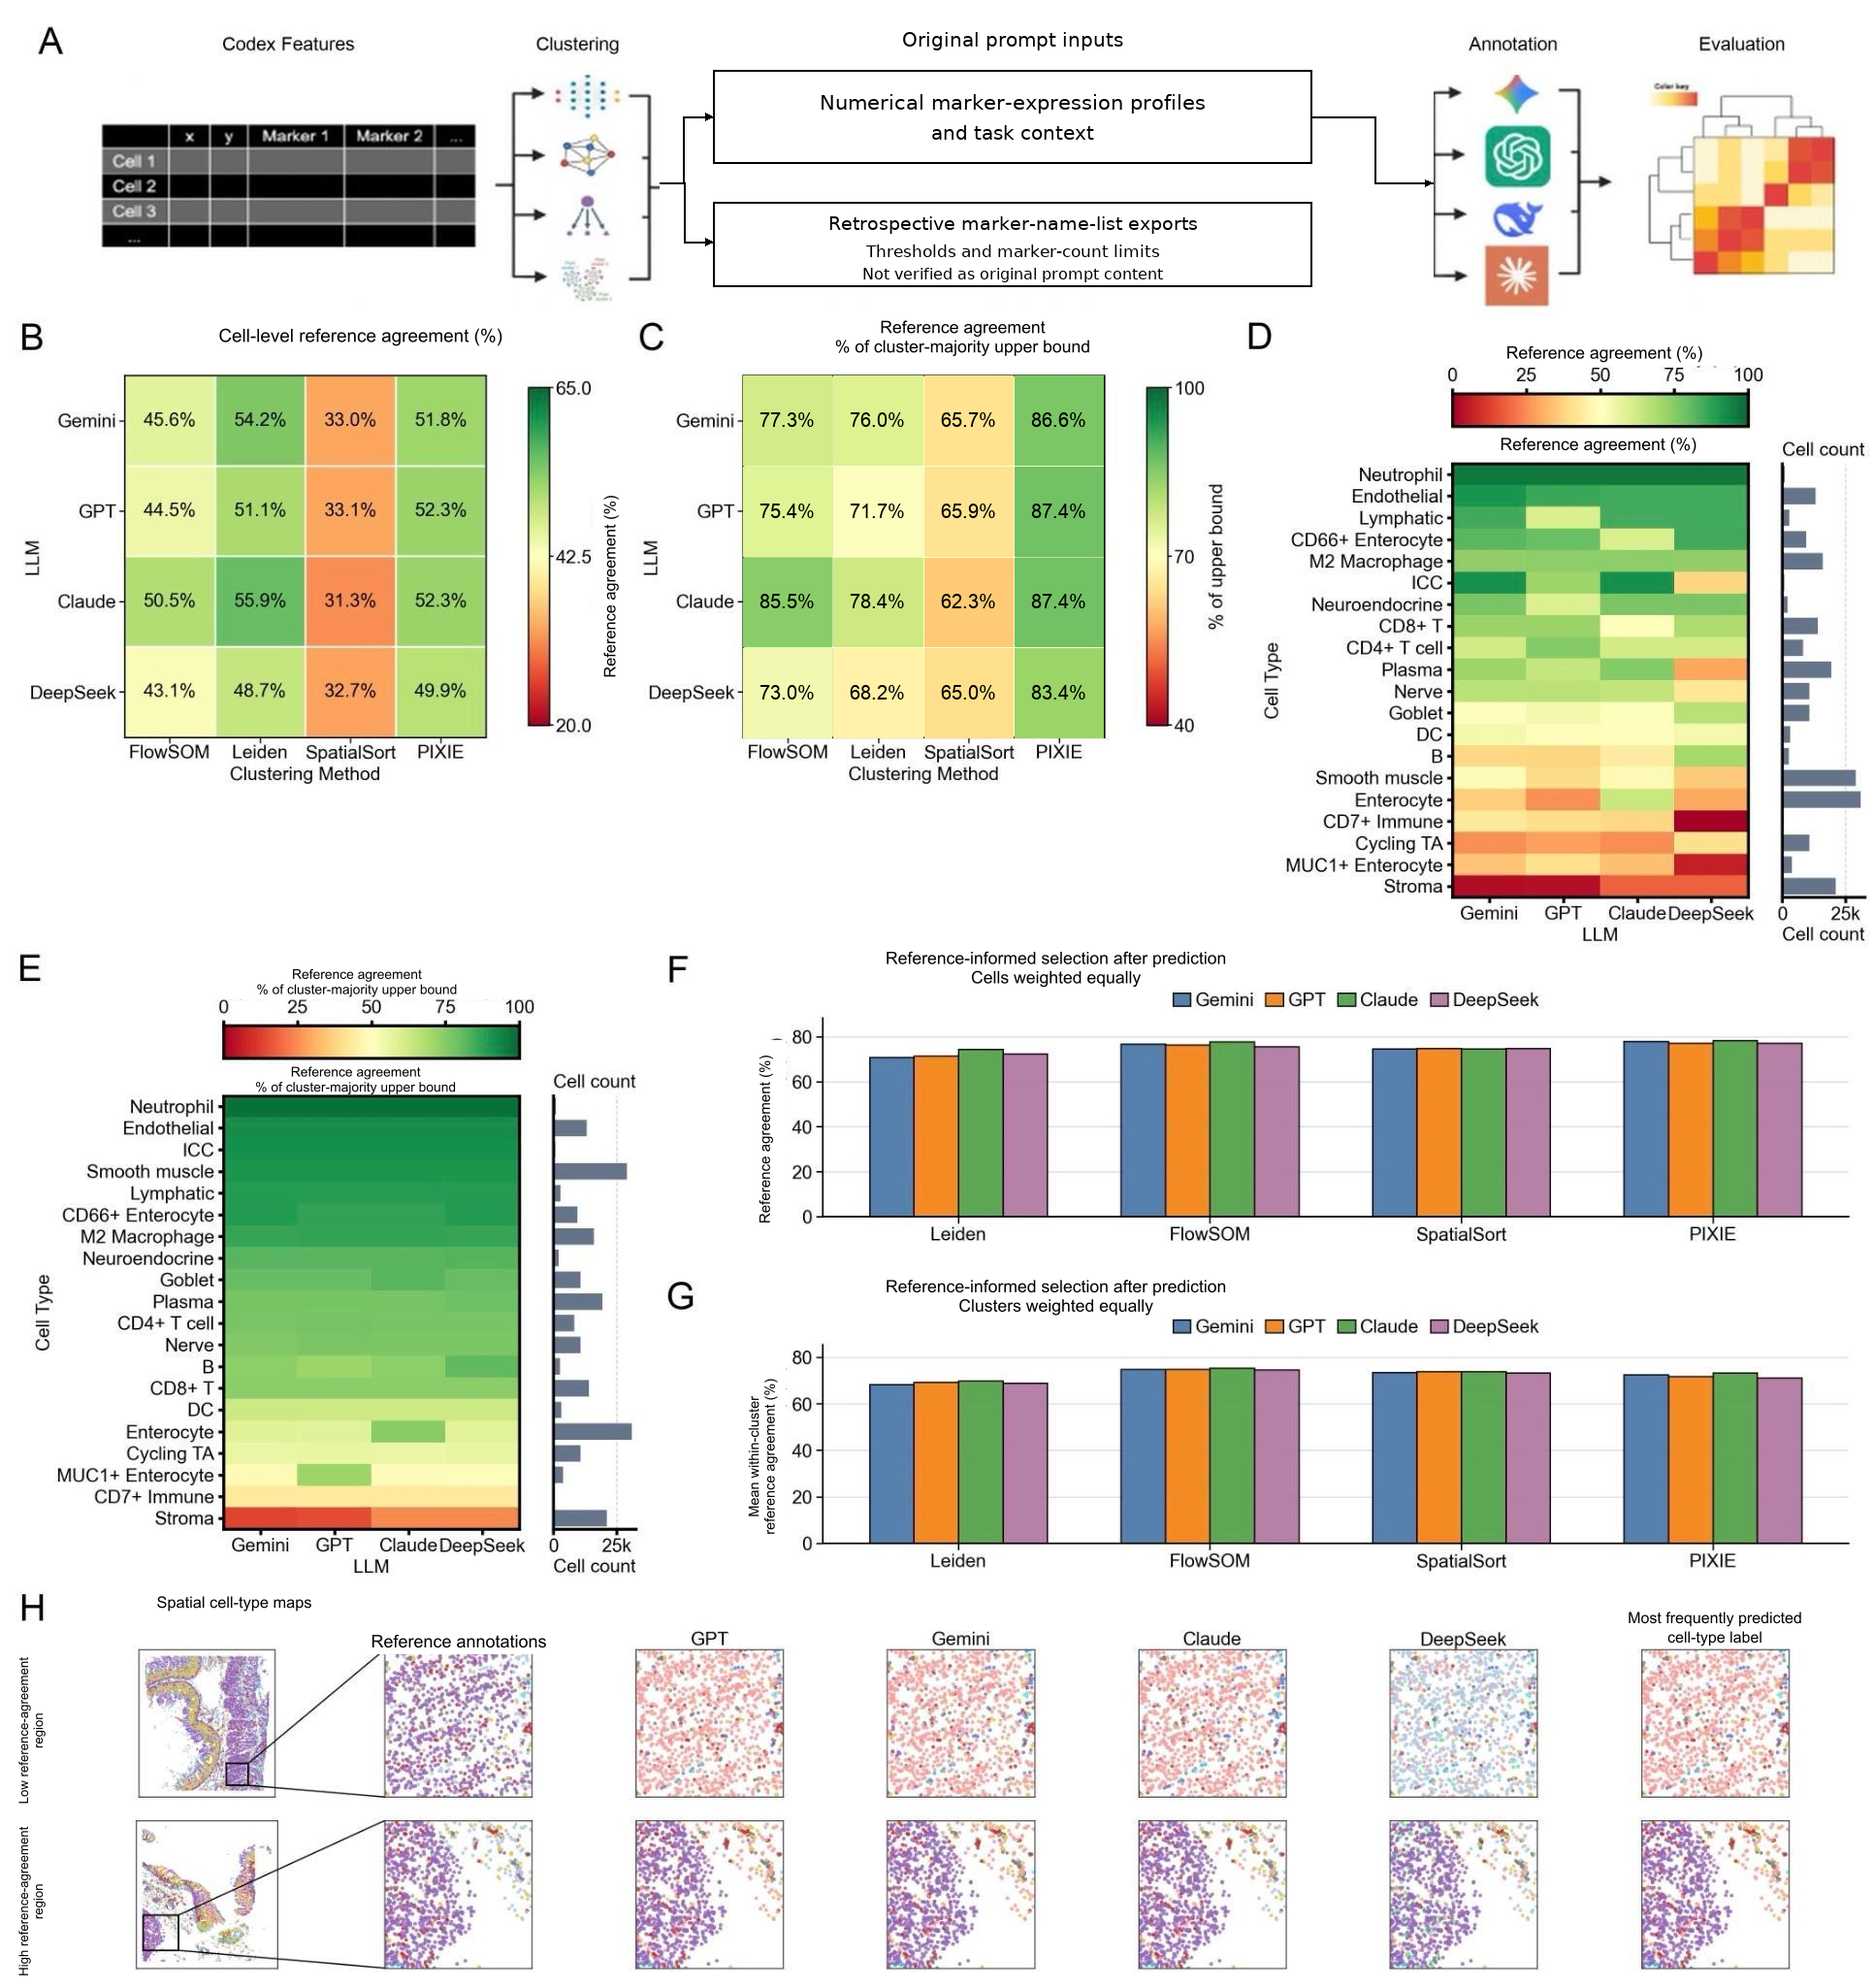
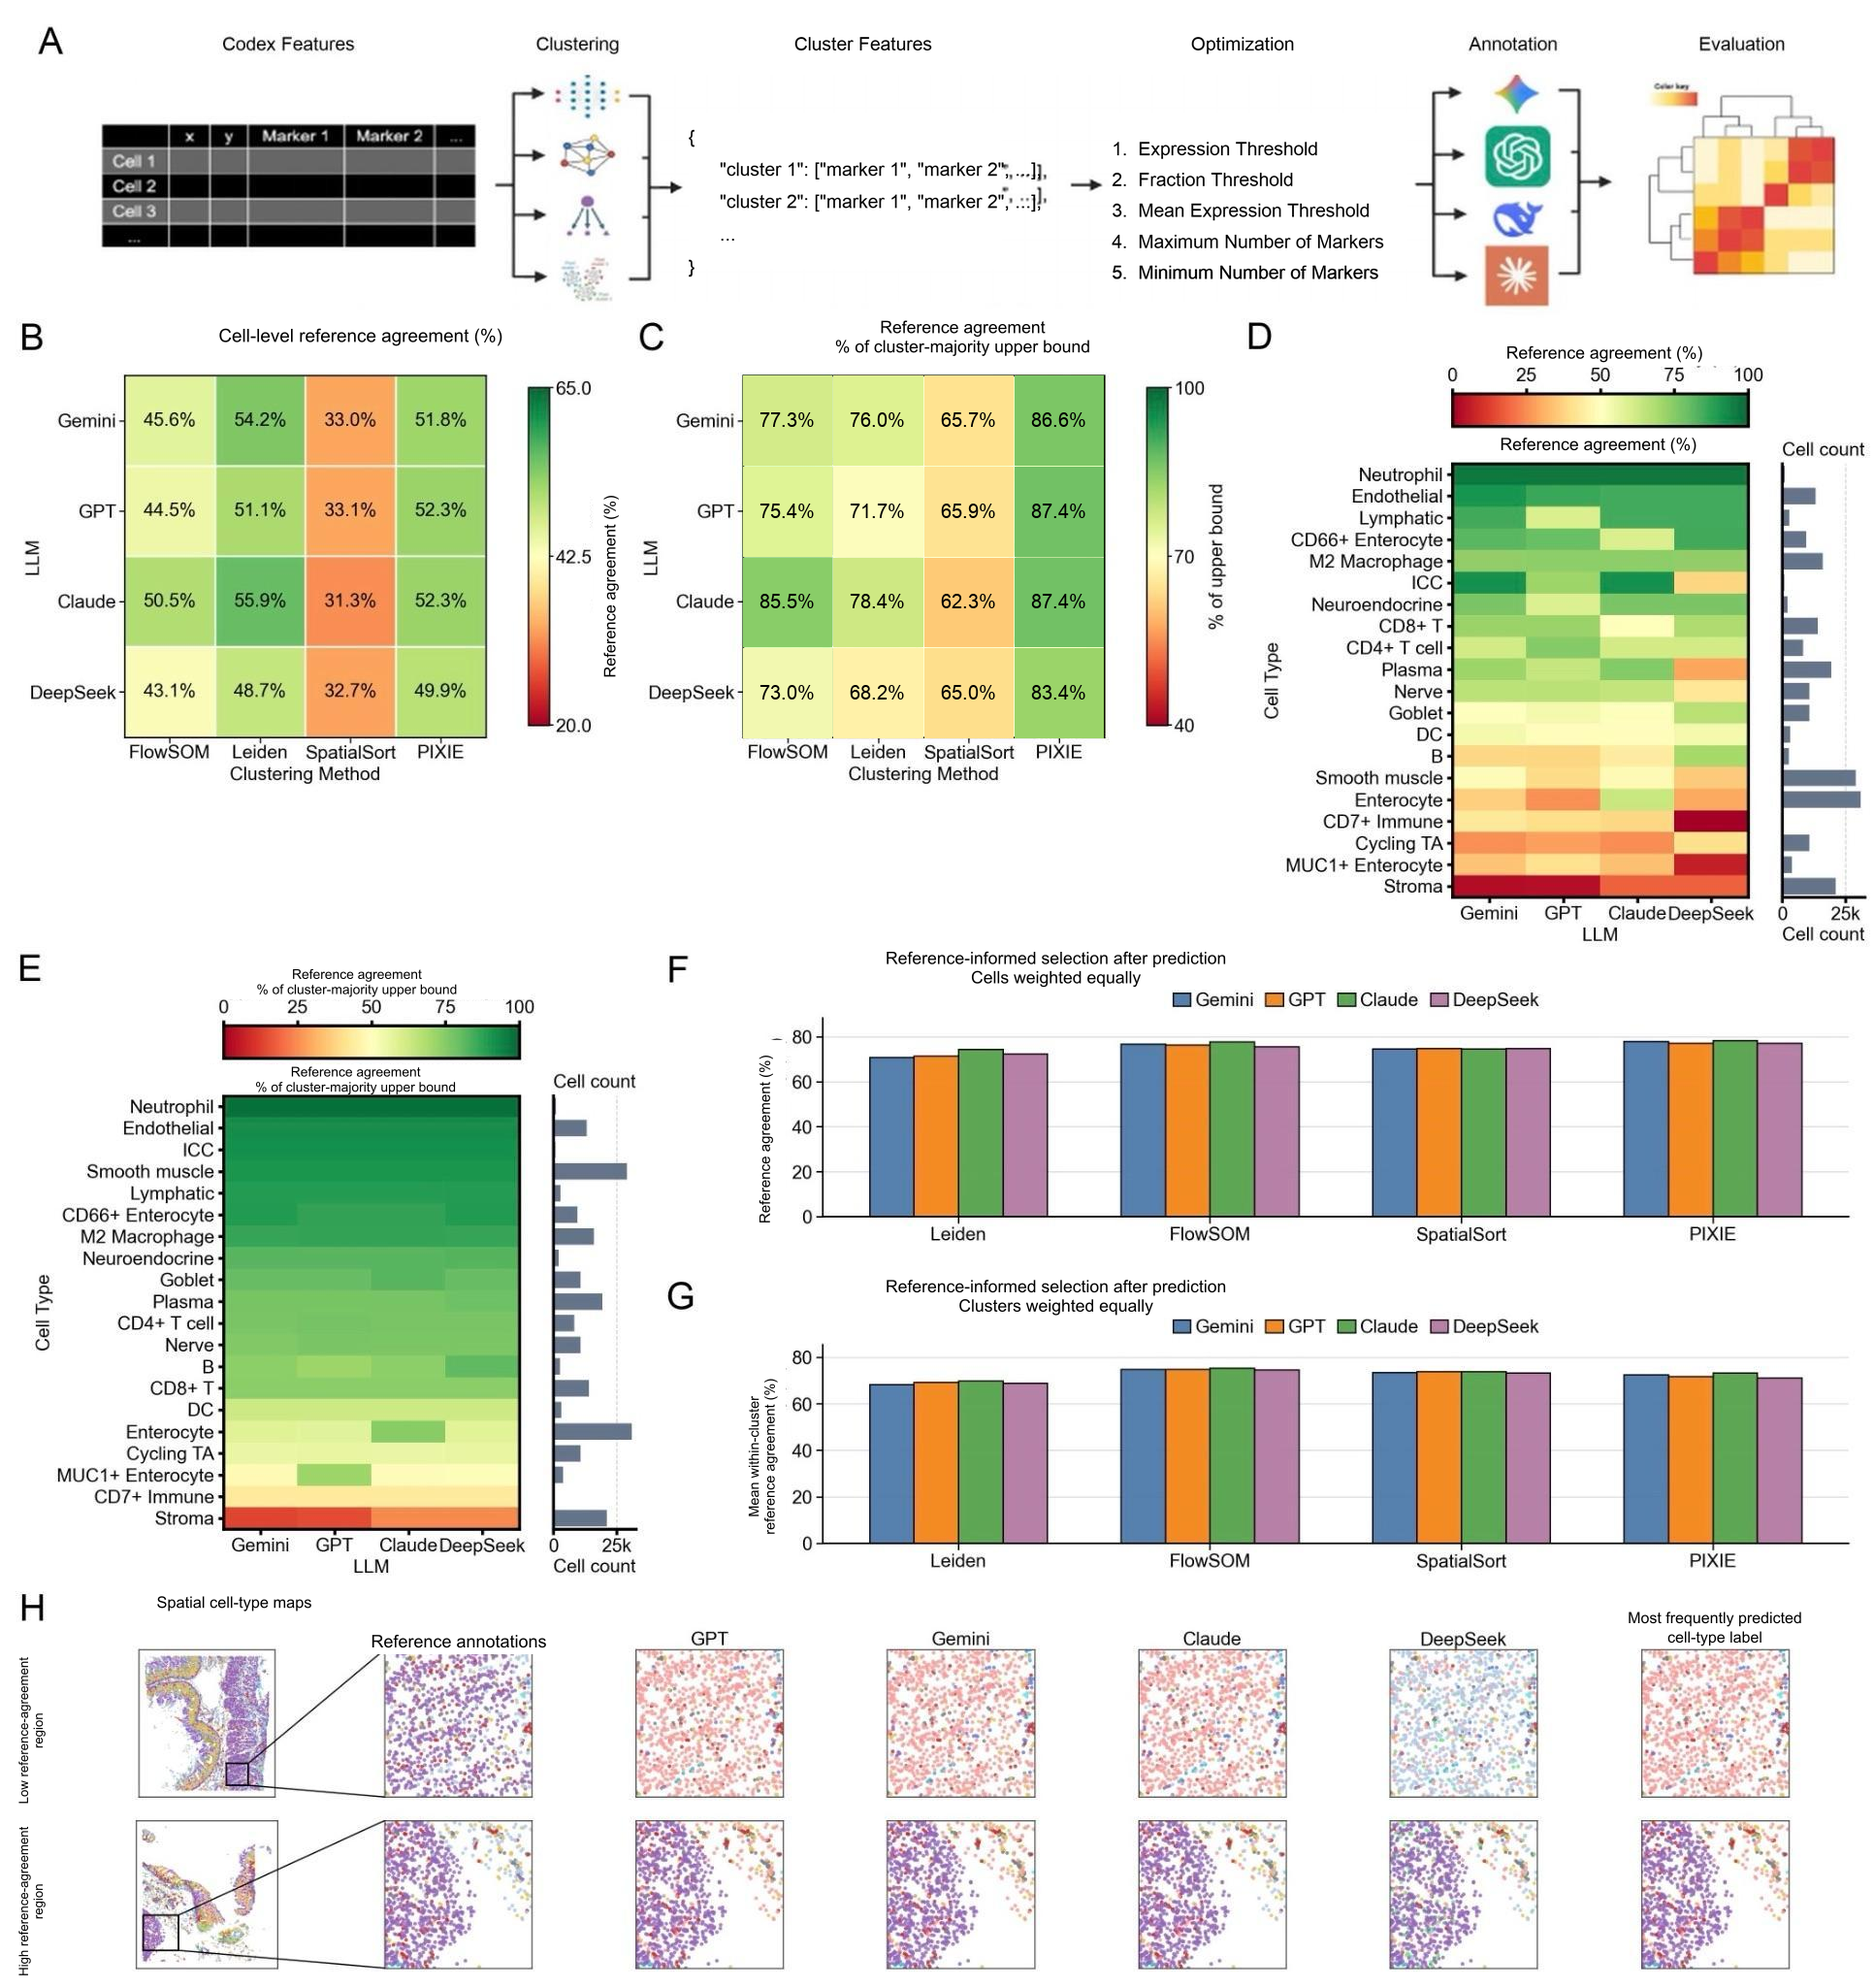
Restore original Figure 3A artwork to match manuscript (#23)

Changed region(s): [[0.4348, 0.0, 0.7453, 0.1562], [0.3727, 0.0625, 0.4037, 0.125], [0.6522, 0.0, 0.6832, 0.0312]]

diff --git a/scripts/update_reference_figure_labels.py b/scripts/update_reference_figure_labels.py
@@ -13,7 +13,6 @@ from pathlib import Path
 import subprocess
 import numpy as np
 from PIL import Image, ImageDraw, ImageFont
-from figure_03_workflow_artwork import draw_prompt_workflow
 
 ROOT = Path(__file__).resolve().parents[1]
 MANIFEST = ROOT / 'docs/reference_figure_label_changes.json'
@@ -37,9 +36,6 @@ def render(source: bytes, spec: dict, font_path: Path) -> Image.Image:
             dx, dy, dw, dh = repair['destination']
             tile = original.crop(tuple(repair['source'])).resize((dw, dh), Image.Resampling.NEAREST)
             result.paste(tile, (dx, dy))
-        if label.get('kind') == 'prompt_workflow':
-            draw_prompt_workflow(result, label['rect'], font_path)
-            continue
         label_font = font_path.with_name('DejaVuSans-Bold.ttf') if label.get('bold') else font_path
         font = ImageFont.truetype(str(label_font), round(label['size']))
         if label.get('kind') == 'component_legend':

diff --git a/docs/figure_03_workflow_and_modal_labels.md b/docs/figure_03_workflow_and_modal_labels.md
@@ -1,32 +1,25 @@
-# Figure 3 prompt provenance and modal-label terminology
+# Figure 3 workflow artwork and modal-label terminology
 
-Publication panel A retains the CODEX feature table, clustering icons, model
-icons and evaluation graphic. Its central schematic now has two distinct paths:
+Publication panel A matches the original workflow restored in the manuscript:
+CODEX Features -> Clustering -> Cluster Features -> Optimization -> Annotation
+-> Evaluation. The cluster-feature block contains the original JSON-style
+marker-name-list example, and the optimization block lists the original five
+threshold and marker-count parameters. The notebook vector schematic uses the
+same stages. No manuscript caption or surrounding prose is changed by this sync.
 
-- Numerical marker-expression profiles and task context feed the original LLM
-  prompt/annotation path.
-- Retrospective marker-name-list exports have a separate branch, labelled as
-  threshold- and marker-count-based exports that do not verify original prompt
-  content. There is no arrow from the short-list export to the LLMs.
+The publication preview is reproduced from the checksum-pinned historical PNG
+without the superseded panel-A overlay. The manuscript image is reproduced from
+its checksum-pinned artwork snapshot. The restoration audit records the exact
+input-region rectangles and verifies that all pixels outside them are unchanged.
+Panels B–H, numerical results, predictions and biological vocabularies are retained.
 
-The old marker-list → optimization → LLM chain is removed. This is a correction
-to the explanatory workflow, with no changes to input data, predictions,
-parameter settings or results. The distinction follows the manuscript’s source
-interpretation in Section 2.10, Section 3.3, Supplementary Note 1 and the caption.
-It does not claim that the notebook reconstruction's generated summaries
-establish the historical prompts.
+The archived numerical marker-expression profiles and task context remain
+distinct from the retrospective marker-name-list exports in the source records.
+Restoring the original explanatory schematic does not alter those records or
+establish how the historical benchmark inputs were constructed.
 
-Publication panel H uses **Modal predicted label**. This describes the most
-frequent predicted label with the existing deterministic tie rule. It does not
-claim independently validated consensus. The underlying modal labels and maps
-are unchanged, and internal `modal_consensus` keys remain for compatibility.
+Publication panel H retains its descriptive modal predicted-label terminology.
+The underlying labels, deterministic tie rule and maps are unchanged, and internal
+`modal_consensus` keys remain for compatibility.
 
-The reproducible display-overlay manifest records exact rectangles and source
-and output hashes. The preview generator verifies that every pixel outside its
-declared rectangles remains identical. The canonical notebook schematic also
-uses the two separate branches. The historical local production renderers use
-the same workflow helper and modal map heading.
-
-## Matching Figure 3 caption wording
-
-Figure 3. Benchmarking large language model cell-type annotation. (A) Workflow showing numerical marker-expression profiles and task context supplied in the original LLM prompts, followed by annotation with GPT-5.6-Sol, Claude Opus 5, Gemini 3.1 Pro Preview or DeepSeek V4 Pro and evaluation against reference labels. Retrospective threshold-based marker-name-list exports are shown on a separate branch and do not establish the original prompt content. (B) Cell-level reference agreement across the 16 raw method-model maps. (C) Reference agreement as a percentage of the cluster-majority upper bound. (D) Cell-type-specific reference agreement for the four models applied to Leiden clusters. (E) Cell-type-specific reference agreement as a percentage of the cluster-majority upper bound. Bars at right in (D) and (E) show reference cell counts. (F–G) We used the known reference labels to select among candidate annotation outputs after prediction. Panel F gives each cell equal weight, while panel G gives each cluster equal weight. Because this selection uses reference labels, it does not measure performance on unlabeled data. (H) Reference and model-predicted spatial maps for representative low- and high-agreement regions. The modal predicted-label map is descriptive and is not an independently validated consensus pipeline. Cell-type colors correspond to Figure 2B. Panel C is recalculated from the verified final maps and fixed-partition majority bounds using Equation (4).
+See `figure_03a_original_restoration_verification.json` for pixel checks and hashes.

diff --git a/notebooks/final_figures/previews/README.md b/notebooks/final_figures/previews/README.md
@@ -1,10 +1,9 @@
 # Publication previews
 
 These PNG files preserve the source-traced publication results and include
-reference terminology, verified metric labels and a prompt-provenance workflow
-revision. They
-are committed so reviewers can inspect the results on GitHub without rerunning
-an analysis. Nine previews preserve every pixel outside 54 declared overlay
+reference terminology, verified metric labels and the restored original Figure 3A
+workflow. They are committed so reviewers can inspect the results on GitHub without rerunning
+an analysis. Nine previews preserve every pixel outside 53 declared overlay
 areas. Figures S5C and S7 are separately rendered from 336 and 32 frozen results
 with their revised palettes and labels. All numerical values are retained.
 Table S1 is a verified IEEE-style rendering of the current editable manuscript
@@ -21,9 +20,8 @@ the actual post-hoc selected reference agreement score, and H identifies recall
 instead of its historical “Purity” display label. See
 [the numerical source audit](../../../docs/figure_02_publication_metrics.md).
 
-Figure 3H uses “Modal predicted label.” Figure 3A separates original numerical
-marker-expression profiles and task context from retrospective marker-name-list
-exports, which have their own branch. No export-to-LLM arrow is shown. See
+Figure 3H uses “Modal predicted label.” Figure 3A retains the original
+Cluster Features -> Optimization schematic restored in the manuscript. See
 [the workflow notes](../../../docs/figure_03_workflow_and_modal_labels.md).
 
 Figures 4D–E and S4B are explicitly Historical majority-based diagnostic
@@ -68,7 +66,7 @@ No clustering, metric calculation, or model call is performed.
 | --- | --- | --- |
[7 lines of base64/hex data omitted]

diff --git a/figures/manuscript/README.md b/figures/manuscript/README.md
@@ -35,3 +35,8 @@ numbering. S7's PNG renderer retains a checksum-pinned publication raster so
 font or Matplotlib-version differences cannot redraw its panels during this
 formatting change. Its analytical builder still supports reconstruction from
 the same 32 frozen condition results and omits the figure-level title.
+
+Figure 3A additionally restores the manuscript's original Cluster Features ->
+Optimization artwork. The source snapshot and checksums were updated, while
+the title-removal layer and every pixel outside the input-workflow region were
+preserved. See [the restoration audit](../../docs/figure_03a_original_restoration_verification.json).
